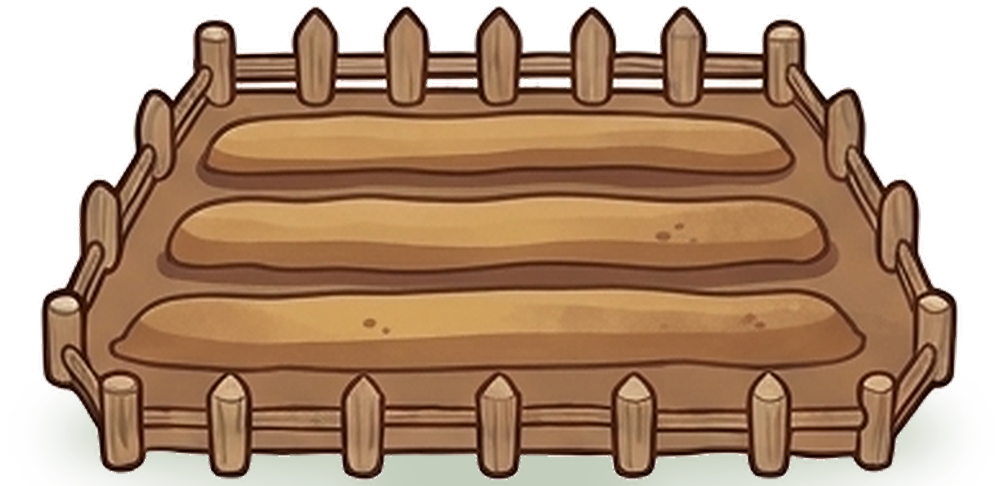
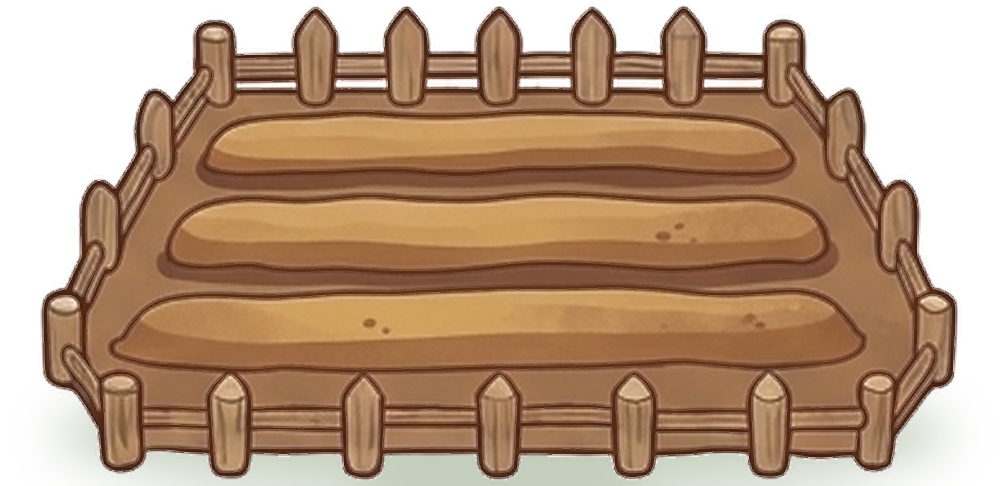
Farm art: thinner, warmer outlines to match cafe and camp line weight
Claude-Session: https://claude.ai/code/session_01BKFR3UAboRDyES9SiyAEwJ

diff --git a/src/screens/Main.dc.html b/src/screens/Main.dc.html
@@ -1042,7 +1042,7 @@ shopLbl: ko ? '토순이 가게' : 'Tienda', wbLbl: ko ? '단어장' : 'Palabras
 hangulLbl: ko ? '율미 편지' : 'Carta de Yoolmi', mbName: 'yoolmi', mbSub: ko ? '영상 · 한국 소식' : 'Videos · noticias',  au: this.authVals(ko), lp: this.lpVals(), ob: this.obVals(ko), ptBlock: !!SS.planting, ptSwallow: (e) => { try { e.preventDefault(); e.stopPropagation(); } catch (x) {} }, shopMsgOn: !!SS.shopMsg, ...(() => { const A = window.__hlAd; const lf = A ? A.left() : 0; return { adTag: ko ? '광고' : 'Anuncio', adRwOn: !SS.shopMsg && !SS.shopDex && lf > 0, adRwLbl: ko ? '광고 보고 당근 1개 받기 · ' + lf + '/' + (A ? A.cap : 6) : 'Mira un anuncio y gana 1 · ' + lf + '/' + (A ? A.cap : 6), adRwGo: () => { const A2 = window.__hlAd; if (!A2) return; A2.rewarded(ko ? '당근 1개 받기 · +1' : 'Recibir 1 zanahoria', () => { const d = this.shopLoad(); d.coins += 1; this.shopSave(d); this.shopNote(ko ? '당근 1개를 받았어요!' : '¡Recibiste 1 zanahoria!'); this.setState({ adK: Date.now() }); }); } }; })(), shopMsgTop: !!SS.shopMsg && !!SS.shopDex, shopMsgGap: !!SS.shopMsg && !SS.shopDex, shopMsg: SS.shopMsg || '',
 shopHint: ko ? '훈련 게임을 하면 당근을 모아요' : 'Juega en Entrenar y junta zanahorias',
 shopItems: catl.filter((x) => x.cat === shopTab).map((it) => { const own = SH.owned.indexOf(it.id) >= 0 || it.price === 0; const on = own && (it.cat === 'deco' ? (SH.eq.deco || []).indexOf(it.id) >= 0 : (SH.eq[it.cat] === it.id || (it.id === 'home_mint' && !(SH.eq.home && SH.owned.indexOf(SH.eq.home) >= 0)) || (it.id === 'font_default' && !(SH.eq.font && SH.owned.indexOf(SH.eq.font) >= 0)) || (it.id === 'bg_forest' && !(SH.eq.bg && SH.owned.indexOf(SH.eq.bg) >= 0)) || (it.id === 'vc_sofia' && !(SH.eq.voice && SH.owned.indexOf(SH.eq.voice) >= 0)))); const afford = SH.coins >= it.price;
-const dk = it.id.replace('dc_', ''); const o = { name: ko ? it.ko : it.es, isBg: it.cat === 'bg' || it.cat === 'home', isTos: it.cat === 'tos', prevBg: it.cat === 'ic' ? 'url(media/ic-' + {ic_lv: 'lv', ic_clover: 'clover', ic_pouch: 'pouch', ic_sun: 'sun', ic_rainbow: 'rainbow', ic_star: 'star', ic_owl: 'owl'}[it.id] + '.webp?v=2) center/46% no-repeat,#FFFFFF' : (it.cat === 'bg' || it.cat === 'home') ? it.css : ((it.cat === 'vil' || it.cat === 'up') ? (it.cat === 'up' ? 'url(media/' + ({ fence: 'vf-', carrot: 'up-carrot-', cafe: 'vc-', tent: 'vt-' })[it.line.slice(3)] + (it.line === 'up_carrot' ? it.tier : Math.min(3, it.tier + 1)) + '.webp?v=11) center/' + ({ up_fence: '92% auto', up_carrot: 'auto 40%', up_cafe: 'auto 72%', up_tent: '80% auto' })[it.line] + ' no-repeat,#FFFFFF' : 'url(media/sp-' + it.id + '.webp?v=2) center/cover no-repeat,#CDE57F') : (it.cat === 'tos' || it.cat === 'kb' || it.cat === 'voice') ? '#FFFFFF' : (it.cat === 'font' ? '#FFFFFF' : '#EEF7F1')), isFont: it.cat === 'font', ff: it.cat === 'font' ? (it.id === 'font_default' ? "'YMF Base'" : "'" + it.ff + "'") : '', filter: it.filter || 'none',
+const dk = it.id.replace('dc_', ''); const o = { name: ko ? it.ko : it.es, isBg: it.cat === 'bg' || it.cat === 'home', isTos: it.cat === 'tos', prevBg: it.cat === 'ic' ? 'url(media/ic-' + {ic_lv: 'lv', ic_clover: 'clover', ic_pouch: 'pouch', ic_sun: 'sun', ic_rainbow: 'rainbow', ic_star: 'star', ic_owl: 'owl'}[it.id] + '.webp?v=2) center/46% no-repeat,#FFFFFF' : (it.cat === 'bg' || it.cat === 'home') ? it.css : ((it.cat === 'vil' || it.cat === 'up') ? (it.cat === 'up' ? 'url(media/' + ({ fence: 'vf-', carrot: 'up-carrot-', cafe: 'vc-', tent: 'vt-' })[it.line.slice(3)] + (it.line === 'up_carrot' ? it.tier : Math.min(3, it.tier + 1)) + '.webp?v=12) center/' + ({ up_fence: '92% auto', up_carrot: 'auto 40%', up_cafe: 'auto 72%', up_tent: '80% auto' })[it.line] + ' no-repeat,#FFFFFF' : 'url(media/sp-' + it.id + '.webp?v=2) center/cover no-repeat,#CDE57F') : (it.cat === 'tos' || it.cat === 'kb' || it.cat === 'voice') ? '#FFFFFF' : (it.cat === 'font' ? '#FFFFFF' : '#EEF7F1')), isFont: it.cat === 'font', ff: it.cat === 'font' ? (it.id === 'font_default' ? "'YMF Base'" : "'" + it.ff + "'") : '', filter: it.filter || 'none',
 showCoin: !own, btnLbl: own ? (on ? (ko ? '사용 중 ✓' : 'En uso ✓') : (ko ? '사용하기' : 'Usar')) : String(it.price), btnBg: own ? (on ? 'var(--th-home,#9BD3A8)' : '#FFFFFF') : (afford ? 'var(--th-circ,#E3F4EC)' : '#F1EEF4'), btnFg: '#4A3A32', op: own || afford ? 1 : 0.7, dis: false, act: () => this.shopAct(it) };
 o.hasImg = !!it.img; o.img = it.img || ''; o.imgH = it.cat === 'tos' ? 88 : 70; return o; }) };
 (() => { const DESC = { vc_sofia: ['또렷하고 상냥한\n소피아 목소리예요.', 'La voz clara y amable\nde Sofía.'], vc_tosuni: ['조금 높고 밝은\n토순이 목소리예요.', 'La voz alegre y aguda\nde Tosuni.'], vc_daniel: ['낮고 차분한\n다니엘 목소리예요.', 'La voz grave y tranquila\nde Daniel.'], bg_forest: ['따뜻한 봄 햇살 아래\n민들레가 피어났어요.', 'Bajo el sol de primavera\nflorecen los dientes de león.'], bg_peach: ['노을 지는 바다 앞에서\n식물이 쉬어 가요.', 'Tu planta descansa frente\nal mar al atardecer.'], bg_night: ['별이 반짝이는 밤.\n"별"은 estrella예요.', 'Una noche estrellada.\n"별" (byol) es estrella.'], bg_palace: ['서울의 궁궐, 경복궁이에요.\n조선 시대 왕이 살았어요.', 'Gyeongbokgung, el palacio de Seúl.\nAllí vivían los reyes de Joseon.'], bg_busan: ['파도가 시원한 여름 바다.\n모래 위 조개껍데기를 찾아봐요!', 'El mar fresco del verano.\n¡Busca conchas en la arena!'], bg_lotte: ['나뭇잎이 붉게 물드는 가을.\n다람쥐가 도토리를 모아요.', 'En otoño las hojas se tiñen de rojo.\nLa ardilla junta bellotas.'], bg_snow: ['하얀 눈이 소복소복 쌓인 겨울.\n눈사람이 반갑게 인사해요.', 'Un invierno de nieve blanca.\nUn muñeco de nieve te saluda.'], dc_butterfly: ['식물 곁을 팔랑팔랑\n날아다니는 나비예요.', 'Una mariposa que revolotea\njunto a tu planta.'], dc_mushroom: ['빨간 모자를 쓴\n동글동글 버섯이에요.', 'Un hongo redondito\ncon sombrero rojo.'], dc_snail: ['천천히, 천천히.\n"천천히"는 despacio예요.', 'Despacio, despacio.\n"천천히" (chonchoni) es despacio.'], dc_bird: ['노래하는 파랑 새예요.\n"새"는 pájaro예요.', 'Un pájaro azul que canta.\n"새" (se) es pájaro.'], dc_sign: ['가, 나, 다!\n한글 첫걸음 팻말이에요.', '¡가, 나, 다!\nUn letrero del primer paso en hangul.'], ts_strawberry: ['딸기 모자를 쓴 토순이.\n"딸기"는 fresa예요.', 'Tosuni con gorro de fresa.\n"딸기" (ttalgui) es fresa.'], ts_farmer: ['밀짚모자를 쓰고\n밭을 가꾸는 토순이예요.', 'Tosuni con sombrero de paja\ncuidando el huerto.'], ts_chef: ['하얀 모자를 쓴 요리사.\n"맛있어요"는 ¡Está rico!예요.', 'Tosuni chef con gorro blanco.\n"맛있어요" es ¡Está rico!'], ts_wizard: ['반짝반짝 마법을 부리는\n마법사 토순이예요.', 'Tosuni mago que hace\nmagia brillante.'], ts_princess: ['왕관을 쓴\n공주 토순이예요.', 'Tosuni princesa\ncon su corona.'], ts_hanbok_blue: ['하늘색 한복을 입었어요.\n한복은 한국 전통 옷이에요.', 'Lleva un hanbok celeste.\nEl hanbok es la ropa tradicional coreana.'], ts_hanbok_pink: ['분홍 한복을 입었어요.\n명절에 입으면 예뻐요.', 'Lleva un hanbok rosa.\nSe ve bonito en las fiestas.'], vs_summer: ["늘 보던 초록 마을이에요.", "La aldea verde de siempre."], ic_lv: ["지금 레벨 아이콘이에요.\n씨앗, 새싹, 꽃잎으로 바뀌어요.", "El icono de tu nivel.\nCambia con tu nivel."], ic_clover: ["행운이 가득!\n오늘은 좋은 예감이 들어.", "¡Mucha suerte!\nHoy tengo un buen presentimiento."], ic_pouch: ["좋은 일이 생길 거야.\n복이 주렁주렁!", "Algo bueno llegará.\n¡Buena fortuna para ti!"], ic_sun: ["오늘도 힘차게!\n할 수 있어, 화이팅!", "¡Con energía!\n¡Tú puedes!"], ic_rainbow: ["오늘은 신나는 날.\n기분 좋은 일만 가득!", "Hoy es un día feliz.\n¡Solo cosas lindas!"], ic_star: ["소원을 빌어 봐.\n오늘 목표, 꼭 이룰 거야.", "Pide un deseo.\nHoy cumplirás tu meta."], ic_owl: ["공부가 쏙쏙!\n천천히, 하나씩 해 보자.", "¡A aprender!\nDespacio, de uno en uno."], vs_spring: ["벚꽃잎이 날리는 봄 마을이에요.\n봄은 primavera예요.", "Una aldea con flores de cerezo.\n봄 es primavera."], vs_autumn: ["단풍잎이 떨어지는 가을 마을이에요.\n가을은 otoño예요.", "Una aldea con hojas de otoño.\n가을 es otoño."], vs_winter: ["하얀 눈이 쌓인 겨울 마을이에요.\n눈은 nieve예요.", "Una aldea cubierta de nieve.\n눈 es nieve."], up_fence1: ['나무 울타리 밭이 하얀 울타리 농장이 돼요.\n비닐하우스도 생겨요.', 'Tu huerto crece: cerca blanca\ny un invernadero.'], up_fence2: ['돌담을 두른 큰 농장이 돼요.\n풍차와 창고가 생겨요.\n하얀 울타리 농장을 먼저 사야 열려요.', 'Una gran granja con molino y granero.\nPrimero compra la granja de cerca blanca.'], up_carrot1: ['밭의 당근이 노란 당근이 돼요.', 'Las zanahorias de la granja se vuelven amarillas.'], up_carrot2: ['밭의 당근이 보라 당근이 돼요.\n노란 당근을 먼저 사야 열려요.', 'Las zanahorias se vuelven moradas.\nPrimero compra Zanahoria amarilla.'], up_cafe1: ['나무 판매대가 작은 카페 건물이 돼요.', 'El puesto de madera se vuelve un café.'], up_cafe2: ['카페가 테라스 있는 2층 건물이 돼요.\n당근 카페를 먼저 사야 열려요.', 'El café crece a dos pisos con terraza.\nPrimero compra el café de zanahoria.'], up_tent1: ['돗자리 옆에 탐험 텐트를 쳐요.', 'Montas una carpa junto a la manta.'], up_tent2: ['망원경이 있는 탐험 전망대가 생겨요.\n탐험 텐트를 먼저 사야 열려요.', 'Un mirador con telescopio.\nPrimero compra la carpa.'], kb_hanji: ['한지 느낌의 기본 자판이에요.\n자음은 흰색, 모음은 한지색이에요.', 'Teclado básico estilo hanji.\nConsonantes blancas, vocales color hanji.'], kb_strawberry: ['달콤한 딸기우유 색 자판이에요.\n채팅할 때 바로 바뀌어요.', 'Teclado color fresa con leche.\nSe usa al chatear.'], kb_lemon: ['상큼한 레몬 색 자판이에요.\n채팅할 때 바로 바뀌어요.', 'Teclado color limón.\nSe usa al chatear.'], kb_ocean: ['시원한 바다 색 자판이에요.\n채팅할 때 바로 바뀌어요.', 'Teclado color mar.\nSe usa al chatear.'], kb_rainbow: ['줄마다 색이 다른 무지개 자판이에요.\n채팅할 때 바로 바뀌어요.', 'Teclado arcoíris.\nSe usa al chatear.'] };
@@ -1054,12 +1054,12 @@ shopVals.spTabs = CATS.map((c) => ({ t: ko ? c[1] : c[2], on: c[0] === shopTab, 
 shopVals.spBackLbl = ko ? '홈으로' : 'Volver a Inicio'; shopVals.spHomeLbl = ko ? '홈' : 'Inicio';
 if (it) { const own = ownOf(it), on = onOf(it), afford = SH.coins >= it.price; const nm = ko ? it.ko : it.es; const D = DESC[it.id] || ['', '']; const eqB = eqBg ? eqBg.css : '#E9F1E4';
  shopVals.sp = { anim: SS.shopK ? (SS.shopDir === 'b' ? 'pg-b' : 'pg-a') : '', pg: (idx + 1) + ' / ' + list.length, name: nm, desc: D[ko ? 0 : 1],
-  pvReal: it.cat === 'bg' || it.cat === 'deco', pvFlat: !(it.cat === 'bg' || it.cat === 'deco'), decos: (() => { const DP = this.decoPosVals(); const DD = { dc_butterfly: ['bfly', 'left:70px;top:40px;', '29px', DP.dpBfly], dc_mushroom: ['mush', 'left:14px;bottom:48px;', '47px', DP.dpMush], dc_snail: ['snail', 'right:8px;bottom:48px;', '34px', DP.dpSnail], dc_bird: ['bird', 'right:58px;top:46px;', '29px', ''], dc_sign: ['sign', 'right:56px;bottom:58px;', '38px', DP.dpSign] }; const ids = (SH.eq.deco || []).filter((x) => SH.owned.indexOf(x) >= 0 && DD[x]); if (it.cat === 'deco' && ids.indexOf(it.id) < 0) ids.push(it.id); return ids.map((x) => { const c = catl.find((q) => q.id === x) || {}; const d = DD[x]; return { img: c.img || '', pos: d[1] + (d[3] || ''), h: d[2], two: x === 'dc_mushroom', f: x === it.id ? 'drop-shadow(0 0 5px rgba(255,236,150,.95))' : 'none' }; }); })(), plTf: it.cat === 'bg' ? 'translateY(-30px) scale(.42)' : 'translateY(22px) scale(.92)', pvIc: it.cat === 'ic', pvUp: it.cat === 'up', upTiers: it.cat === 'up' ? [0, 1, 2].map((k) => { const ln = it.line.slice(3); const img = 'media/' + ({ fence: 'vf-', carrot: 'up-carrot-', cafe: 'vc-', tent: 'vt-' })[ln] + (ln === 'carrot' ? k : k + 1) + '.webp?v=11'; const has = k === 0 || SH.owned.indexOf(it.line + k) >= 0; const cur = k === it.tier; return { img: img, t: k === 0 ? (ko ? '기본' : 'Básico') : (ko ? k + '단계' : 'Nivel ' + k), bd: cur ? '2px solid #6E58B8' : '1.4px solid ' + (has ? '#BFB3D6' : '#E2DBEC'), op: cur || has ? 1 : 0.5, fw: cur ? 800 : 700, c: cur ? '#4F3C99' : '#7A6E86', h: ln === 'carrot' ? '30px' : '34px' }; }) : [], icBg: it.id === 'ic_lv' ? (({ LH: '#F5EAD6', SS: '#E4F3D8', GE: '#FCE4EC' })[this.myCls()] || '#F5EAD6') : (({ ic_clover: '#E4F3D8', ic_pouch: '#FDE3E6', ic_sun: '#FFF2C4', ic_rainbow: '#E3F0FB', ic_star: '#ECE6FA', ic_owl: '#F3E6D8' })[it.id] || '#F5EAD6'), icImg: it.cat === 'ic' ? 'media/ic-' + it.id.slice(3) + '.webp?v=2' : '', icOn: it.cat === 'ic' && on, icOnT: ko ? '적용 중' : 'En uso', icNm: (() => { try { return window.localStorage.getItem('yoolmi-plant-nick-' + this.myCls()) || (ko ? '내 식물' : 'Mi planta'); } catch (e) { return ko ? '내 식물' : 'Mi planta'; } })(), pvBg: it.cat === 'ic' ? 'url(media/ic-' + {ic_lv: 'lv', ic_clover: 'clover', ic_pouch: 'pouch', ic_sun: 'sun', ic_rainbow: 'rainbow', ic_star: 'star', ic_owl: 'owl'}[it.id] + '.webp?v=2) 50% 32%/44% no-repeat,#FFFFFF' : it.cat === 'up' ? 'url(media/' + ({ fence: 'vf-', carrot: 'up-carrot-', cafe: 'vc-', tent: 'vt-' })[it.line.slice(3)] + (it.line === 'up_carrot' ? it.tier : Math.min(3, it.tier + 1)) + '.webp?v=11) 50% 30%/' + ({ up_fence: '84% auto', up_carrot: 'auto 34%', up_cafe: 'auto 54%', up_tent: '64% auto' })[it.line] + ' no-repeat,#FFFFFF' : it.cat === 'vil' ? 'url(media/sp-' + it.id + '.webp?v=2) center/cover no-repeat,#CDE57F' : it.cat === 'bg' ? String(it.css).replace('50% 100%/cover', '50% 46%/100% auto') + ', ' + (({ bg_forest: '#C5E36B', bg_peach: '#BFA3DB', bg_night: '#332B6F', bg_palace: '#FEEAD3', bg_busan: '#FEE493', bg_lotte: '#FED658', bg_snow: '#EDF0FB' })[it.id] || '#CFE8F5') : it.cat === 'home' ? it.css : ((it.cat === 'vil' || it.cat === 'up') ? '#E9F4D6' : (it.cat === 'tos' || it.cat === 'kb' || it.cat === 'voice') ? '#FFFFFF' : eqB), pvPlant: it.cat === 'bg' || it.cat === 'deco', pvDeco: it.cat === 'deco', pvTos: it.cat === 'tos', pvVoice: it.cat === 'voice', vcLbl: ko ? '들어 보기' : 'Escuchar', vcGo: () => { const VI = { vc_sofia: 5, vc_tosuni: 2, vc_daniel: 3 }; try { this.hlKbInstall && this.hlKbInstall(); } catch (e) {} if (window.__hlSay) window.__hlSay(({ vc_sofia: '안녕하세요, 저는 소피아예요. 오늘도 같이 읽어 봐요.', vc_tosuni: '안녕! 나는 토순이야. 오늘도 한글 나라에서 같이 놀자!', vc_daniel: '안녕하세요, 다니엘이에요. 천천히, 하나씩 해 봐요.' })[it.id] || '안녕하세요!', ({ vc_sofia: 'so', vc_tosuni: 'to', vc_daniel: 'da' })[it.id] || 'so'); }, pvKb: it.cat === 'kb', kbCls: it.cat === 'kb' ? 'sp-kb' : '', pvHome: it.cat === 'home', plant: plantImg, img: it.img || '',
+  pvReal: it.cat === 'bg' || it.cat === 'deco', pvFlat: !(it.cat === 'bg' || it.cat === 'deco'), decos: (() => { const DP = this.decoPosVals(); const DD = { dc_butterfly: ['bfly', 'left:70px;top:40px;', '29px', DP.dpBfly], dc_mushroom: ['mush', 'left:14px;bottom:48px;', '47px', DP.dpMush], dc_snail: ['snail', 'right:8px;bottom:48px;', '34px', DP.dpSnail], dc_bird: ['bird', 'right:58px;top:46px;', '29px', ''], dc_sign: ['sign', 'right:56px;bottom:58px;', '38px', DP.dpSign] }; const ids = (SH.eq.deco || []).filter((x) => SH.owned.indexOf(x) >= 0 && DD[x]); if (it.cat === 'deco' && ids.indexOf(it.id) < 0) ids.push(it.id); return ids.map((x) => { const c = catl.find((q) => q.id === x) || {}; const d = DD[x]; return { img: c.img || '', pos: d[1] + (d[3] || ''), h: d[2], two: x === 'dc_mushroom', f: x === it.id ? 'drop-shadow(0 0 5px rgba(255,236,150,.95))' : 'none' }; }); })(), plTf: it.cat === 'bg' ? 'translateY(-30px) scale(.42)' : 'translateY(22px) scale(.92)', pvIc: it.cat === 'ic', pvUp: it.cat === 'up', upTiers: it.cat === 'up' ? [0, 1, 2].map((k) => { const ln = it.line.slice(3); const img = 'media/' + ({ fence: 'vf-', carrot: 'up-carrot-', cafe: 'vc-', tent: 'vt-' })[ln] + (ln === 'carrot' ? k : k + 1) + '.webp?v=12'; const has = k === 0 || SH.owned.indexOf(it.line + k) >= 0; const cur = k === it.tier; return { img: img, t: k === 0 ? (ko ? '기본' : 'Básico') : (ko ? k + '단계' : 'Nivel ' + k), bd: cur ? '2px solid #6E58B8' : '1.4px solid ' + (has ? '#BFB3D6' : '#E2DBEC'), op: cur || has ? 1 : 0.5, fw: cur ? 800 : 700, c: cur ? '#4F3C99' : '#7A6E86', h: ln === 'carrot' ? '30px' : '34px' }; }) : [], icBg: it.id === 'ic_lv' ? (({ LH: '#F5EAD6', SS: '#E4F3D8', GE: '#FCE4EC' })[this.myCls()] || '#F5EAD6') : (({ ic_clover: '#E4F3D8', ic_pouch: '#FDE3E6', ic_sun: '#FFF2C4', ic_rainbow: '#E3F0FB', ic_star: '#ECE6FA', ic_owl: '#F3E6D8' })[it.id] || '#F5EAD6'), icImg: it.cat === 'ic' ? 'media/ic-' + it.id.slice(3) + '.webp?v=2' : '', icOn: it.cat === 'ic' && on, icOnT: ko ? '적용 중' : 'En uso', icNm: (() => { try { return window.localStorage.getItem('yoolmi-plant-nick-' + this.myCls()) || (ko ? '내 식물' : 'Mi planta'); } catch (e) { return ko ? '내 식물' : 'Mi planta'; } })(), pvBg: it.cat === 'ic' ? 'url(media/ic-' + {ic_lv: 'lv', ic_clover: 'clover', ic_pouch: 'pouch', ic_sun: 'sun', ic_rainbow: 'rainbow', ic_star: 'star', ic_owl: 'owl'}[it.id] + '.webp?v=2) 50% 32%/44% no-repeat,#FFFFFF' : it.cat === 'up' ? 'url(media/' + ({ fence: 'vf-', carrot: 'up-carrot-', cafe: 'vc-', tent: 'vt-' })[it.line.slice(3)] + (it.line === 'up_carrot' ? it.tier : Math.min(3, it.tier + 1)) + '.webp?v=12) 50% 30%/' + ({ up_fence: '84% auto', up_carrot: 'auto 34%', up_cafe: 'auto 54%', up_tent: '64% auto' })[it.line] + ' no-repeat,#FFFFFF' : it.cat === 'vil' ? 'url(media/sp-' + it.id + '.webp?v=2) center/cover no-repeat,#CDE57F' : it.cat === 'bg' ? String(it.css).replace('50% 100%/cover', '50% 46%/100% auto') + ', ' + (({ bg_forest: '#C5E36B', bg_peach: '#BFA3DB', bg_night: '#332B6F', bg_palace: '#FEEAD3', bg_busan: '#FEE493', bg_lotte: '#FED658', bg_snow: '#EDF0FB' })[it.id] || '#CFE8F5') : it.cat === 'home' ? it.css : ((it.cat === 'vil' || it.cat === 'up') ? '#E9F4D6' : (it.cat === 'tos' || it.cat === 'kb' || it.cat === 'voice') ? '#FFFFFF' : eqB), pvPlant: it.cat === 'bg' || it.cat === 'deco', pvDeco: it.cat === 'deco', pvTos: it.cat === 'tos', pvVoice: it.cat === 'voice', vcLbl: ko ? '들어 보기' : 'Escuchar', vcGo: () => { const VI = { vc_sofia: 5, vc_tosuni: 2, vc_daniel: 3 }; try { this.hlKbInstall && this.hlKbInstall(); } catch (e) {} if (window.__hlSay) window.__hlSay(({ vc_sofia: '안녕하세요, 저는 소피아예요. 오늘도 같이 읽어 봐요.', vc_tosuni: '안녕! 나는 토순이야. 오늘도 한글 나라에서 같이 놀자!', vc_daniel: '안녕하세요, 다니엘이에요. 천천히, 하나씩 해 봐요.' })[it.id] || '안녕하세요!', ({ vc_sofia: 'so', vc_tosuni: 'to', vc_daniel: 'da' })[it.id] || 'so'); }, pvKb: it.cat === 'kb', kbCls: it.cat === 'kb' ? 'sp-kb' : '', pvHome: it.cat === 'home', plant: plantImg, img: it.img || '',
   pvLbl: ko ? '미리보기' : 'Vista previa', ownOn: own && !on, ownTxt: on ? (ko ? '적용 중' : 'En uso') : (ko ? '가지고 있어요' : 'Ya lo tienes'), ownBg: on ? '#DCD0F2' : '#FFFFFF',
   dots: list.map((x, k) => ({ w: k === idx ? '18px' : '7px', c: k === idx ? '#8A766B' : '#D8CEC4' })),
   btnCoin: !own && !(it.req && SH.owned.indexOf(it.req) < 0), btnLbl: (!own && it.req && SH.owned.indexOf(it.req) < 0) ? (ko ? '앞 단계 먼저' : 'Nivel anterior primero') : own ? (on ? (it.cat === 'ic' ? (ko ? '해제하기' : 'Quitar') : it.cat === 'up' ? (ko ? '기본으로 되돌리기' : 'Volver a lo básico') : it.cat === 'deco' ? (ko ? '식물에서 빼기' : 'Quitar de la planta') : (ko ? '적용 중' : 'En uso')) : (ko ? '적용하기' : 'Aplicar')) : String(it.price),
   btnBg: (!own && it.req && SH.owned.indexOf(it.req) < 0) ? '#ECE7F2' : own ? (on ? ((it.cat === 'deco' || it.cat === 'up' || it.cat === 'ic') ? '#FFFFFF' : '#DCD0F2') : '#FFFFFF') : (afford ? '#FFE3CC' : '#ECE7F2'), btnOp: !own && !afford ? 0.6 : 1,
-  act: () => { if (own && on && it.cat !== 'deco' && it.cat !== 'up' && it.cat !== 'ic') return; this.shopAct(it); }, prev: go(-1), next: go(1), ...(() => { const pk = (x) => ({ bg: x.cat === 'ic' ? 'url(media/ic-' + {ic_lv: 'lv', ic_clover: 'clover', ic_pouch: 'pouch', ic_sun: 'sun', ic_rainbow: 'rainbow', ic_star: 'star', ic_owl: 'owl'}[x.id] + '.webp?v=2) center/46% no-repeat,#FFFFFF' : x.cat === 'bg' || x.cat === 'home' ? x.css : ((x.cat === 'vil' || x.cat === 'up') ? (x.cat === 'up' ? 'url(media/' + ({ fence: 'vf-', carrot: 'up-carrot-', cafe: 'vc-', tent: 'vt-' })[x.line.slice(3)] + (x.line === 'up_carrot' ? x.tier : Math.min(3, x.tier + 1)) + '.webp?v=11) center/' + ({ up_fence: '96% auto', up_carrot: 'auto 40%', up_cafe: 'auto 46%', up_tent: '62% auto' })[x.line] + ' no-repeat,#FFFFFF' : 'url(media/sp-' + x.id + '.webp?v=2) center/cover no-repeat,#CDE57F') : (x.cat === 'tos' || x.cat === 'kb' || x.cat === 'voice') ? '#FFFFFF' : eqB), img: '' }); const a = pk(list[(idx - 1 + list.length) % list.length]), b = pk(list[(idx + 1) % list.length]); return { prevBg: a.bg, prevImg: a.img, prevHasImg: !!a.img, nextBg: b.bg, nextImg: b.img, nextHasImg: !!b.img }; })(), pd: (e) => { this._swX = e && e.clientX; }, pu: (e) => { const x0 = this._swX; this._swX = null; if (x0 == null || !e) return; const dx = e.clientX - x0; if (dx > 40) go(-1)(); else if (dx < -40) go(1)(); }, prevLbl: ko ? '이전 물건' : 'Anterior', nextLbl: ko ? '다음 물건' : 'Siguiente' }; }
+  act: () => { if (own && on && it.cat !== 'deco' && it.cat !== 'up' && it.cat !== 'ic') return; this.shopAct(it); }, prev: go(-1), next: go(1), ...(() => { const pk = (x) => ({ bg: x.cat === 'ic' ? 'url(media/ic-' + {ic_lv: 'lv', ic_clover: 'clover', ic_pouch: 'pouch', ic_sun: 'sun', ic_rainbow: 'rainbow', ic_star: 'star', ic_owl: 'owl'}[x.id] + '.webp?v=2) center/46% no-repeat,#FFFFFF' : x.cat === 'bg' || x.cat === 'home' ? x.css : ((x.cat === 'vil' || x.cat === 'up') ? (x.cat === 'up' ? 'url(media/' + ({ fence: 'vf-', carrot: 'up-carrot-', cafe: 'vc-', tent: 'vt-' })[x.line.slice(3)] + (x.line === 'up_carrot' ? x.tier : Math.min(3, x.tier + 1)) + '.webp?v=12) center/' + ({ up_fence: '96% auto', up_carrot: 'auto 40%', up_cafe: 'auto 46%', up_tent: '62% auto' })[x.line] + ' no-repeat,#FFFFFF' : 'url(media/sp-' + x.id + '.webp?v=2) center/cover no-repeat,#CDE57F') : (x.cat === 'tos' || x.cat === 'kb' || x.cat === 'voice') ? '#FFFFFF' : eqB), img: '' }); const a = pk(list[(idx - 1 + list.length) % list.length]), b = pk(list[(idx + 1) % list.length]); return { prevBg: a.bg, prevImg: a.img, prevHasImg: !!a.img, nextBg: b.bg, nextImg: b.img, nextHasImg: !!b.img }; })(), pd: (e) => { this._swX = e && e.clientX; }, pu: (e) => { const x0 = this._swX; this._swX = null; if (x0 == null || !e) return; const dx = e.clientX - x0; if (dx > 40) go(-1)(); else if (dx < -40) go(1)(); }, prevLbl: ko ? '이전 물건' : 'Anterior', nextLbl: ko ? '다음 물건' : 'Siguiente' }; }
 else shopVals.sp = {};
 const all = catl.filter((x) => CATS.some((c) => c[0] === x.cat)); const ownN = all.filter(ownOf).length;
 shopVals.spDexPeek = (() => { const eB = catl.find((x) => x.cat === 'bg' && onOf(x)) || catl.find((x) => x.id === 'bg_forest'); const eT = catl.find((x) => x.cat === 'tos' && SH.eq.tos === x.id && ownOf(x)); return [{ k: ko ? '배경' : 'Fondo', name: eB ? (ko ? eB.ko : eB.es) : '', thumb: eB ? eB.css : '#fff', hasImg: false, img: '' }, { k: ko ? '토순이' : 'Tosuni', name: eT ? (ko ? eT.ko : eT.es) : (ko ? '기본 토순이' : 'Tosuni básico'), thumb: '#FFFFFF', hasImg: true, img: eT ? eT.img : (this.tosSkin() || '/_blob/2edc7da400f67364cabb2f330021b520') }]; })(); shopVals.spDexOn = !!SS.shopDex; shopVals.spDexOpen = () => this.setState({ shopDex: true }); shopVals.spDexClose = () => this.setState({ shopDex: false });

diff --git a/src/screens/Quiz.dc.html b/src/screens/Quiz.dc.html
@@ -906,7 +906,7 @@ clearTimeout(this._g2T); this.setState({ g2Ph: 'res', g2Gain: gain, g3Ok: ok, g3
 g3Plots() { const X = this.g3FarmStat(); const out = []; const rd = Math.min(15, X.ready.length); for (let i = 0; i < 15; i++) { if (i < rd) out.push('c'); else if (i < rd + X.sprout.length) { const ag = Date.now() - (X.F.p[X.sprout[i - rd]] || Date.now()); out.push(ag < 1200000 ? 's1' : (ag < 2400000 ? 's2' : 's3')); } else out.push('e'); } return { plots: out, X: X }; }
 g3Hub() {
 const ko = this.getLang() === 'ko'; const P = this.g3Plots(); const POS = ({"0": [[30.82, 31.01, 7.54], [40.85, 31.01, 7.54], [50.88, 31.01, 7.54], [60.91, 31.01, 7.54], [70.94, 31.01, 7.54], [27.38, 34.71, 7.54], [38.3, 34.71, 7.54], [49.3, 34.71, 7.54], [60.3, 34.71, 7.54], [71.21, 34.71, 7.54], [23.6, 38.67, 7.54], [36.1, 38.67, 7.54], [48.68, 38.67, 7.54], [61.26, 38.67, 7.54], [73.76, 38.67, 7.54]], "1": [[29.94, 31.23, 7.81], [39.97, 31.23, 7.81], [50.0, 31.23, 7.81], [60.03, 31.23, 7.81], [70.06, 31.23, 7.81], [26.94, 35.02, 7.81], [37.86, 35.02, 7.81], [48.68, 35.02, 7.81], [59.5, 35.02, 7.81], [70.42, 35.02, 7.81], [23.42, 39.2, 7.81], [35.57, 39.2, 7.81], [47.8, 39.2, 7.81], [60.03, 39.2, 7.81], [72.18, 39.2, 7.81]], "2": [[30.29, 30.18, 7.9], [40.76, 30.18, 7.9], [51.32, 30.18, 7.9], [61.88, 30.18, 7.9], [72.35, 30.18, 7.9], [27.47, 34.18, 7.9], [39.18, 34.18, 7.9], [50.88, 34.18, 7.9], [62.58, 34.18, 7.9], [74.29, 34.18, 7.9], [28.79, 38.27, 7.9], [39.88, 38.27, 7.9], [50.88, 38.27, 7.9], [61.88, 38.27, 7.9], [72.97, 38.27, 7.9]]})[(() => { try { const e = JSON.parse(window.localStorage.getItem('yoolmi-equip') || '{}') || {}; const o = JSON.parse(window.localStorage.getItem('yoolmi-owned') || '[]') || []; return (e.up_fence && o.indexOf(e.up_fence) >= 0) ? String(Math.min(2, +String(e.up_fence).slice(-1) || 0)) : '0'; } catch (x) { return '0'; } })()];
-return { g3HubOn: !((this.state || {}).mode), g3VilDeco: (() => { const P = { vl_flower: [2, 46, 20], vl_bench: [26, 48.5, 18], vl_scarecrow: [61, 46, 13], vl_mailbox: [87, 55, 10], vl_well: [81, 12, 16], vl_lantern: [46, 54.5, 8], vl_jangdok: [1, 87.5, 22], vl_pond: [36, 88, 27] }; let eq = [], own = []; try { const e = JSON.parse(window.localStorage.getItem('yoolmi-equip') || '{}') || {}; eq = [].concat(e.vil || []); own = JSON.parse(window.localStorage.getItem('yoolmi-owned') || '[]') || []; } catch (e) {} return eq.filter((id) => P[id] && own.indexOf(id) >= 0).map((id) => ({ k: id, src: 'media/vl-' + id.slice(3) + '.svg?v=1', st: 'left:' + P[id][0] + '%;top:' + P[id][1] + '%;width:' + P[id][2] + '%' })); })(), ...(() => { let e = {}, o = []; try { e = JSON.parse(window.localStorage.getItem('yoolmi-equip') || '{}') || {}; o = JSON.parse(window.localStorage.getItem('yoolmi-owned') || '[]') || []; } catch (x) {} const tier = (ln) => { const id = e['up_' + ln]; if (!id || o.indexOf(id) < 0) return 0; return parseInt(String(id).slice(-1), 10) || 0; }; const F = tier('fence'), C = tier('carrot'), K = tier('cafe'), T = tier('tent'); const GL = 'drop-shadow(0 0 6px rgba(255,225,120,.95)) drop-shadow(0 .6cqw .5cqw rgba(70,90,40,.22))'; return { g3UpFarm: 'media/vf-' + (Math.min(2, F) + 1) + '.webp?v=8', g3UpCafe: 'media/vc-' + (Math.min(2, K) + 1) + '.webp?v=7', g3UpTent: 'media/vt-' + (Math.min(2, T) + 1) + '.webp?v=4', g3UpCafeF: (Math.min(2, K) === 0 ? 'scale:1.1;transform-origin:50% 100%' : ''), g3UpTentF: (Math.min(2, T) === 0 ? 'scale:1.1;transform-origin:50% 100%' : ''), g3UpCrVar: '--far:1000/' + ({ 0: 486, 1: 613, 2: 690 })[Math.min(2, F)] + ';' + '--crimg:url(media/pc-' + Math.min(2, C) + '.webp?v=1);--crsz:100% 100%;--crar:' + (['272/303', '272/303', '272/301'][Math.min(2, C)] || '272/303') + ';--crclip:none;--crty:-97%;'  }; })(), g3InBg: this.g3BgCss(), g3InBgF: this.g3BgCss('f'), g3VilBgCss: (() => { let f = ''; try { const e = JSON.parse(window.localStorage.getItem('yoolmi-equip') || '{}') || {}; const o = JSON.parse(window.localStorage.getItem('yoolmi-owned') || '[]') || []; const M = { vs_spring: '-spring', vs_autumn: '-autumn', vs_winter: '-winter' };  } catch (e) {} return 'background:url(media/vil-bg' + f + '.webp?v=3) center bottom/cover no-repeat,' + (f === '-winter' ? '#EEF3F4' : (f === '-autumn' ? '#E3CB7E' : '#CDE57F')); })(), g3Tod: 'day', g3VilT: ko ? '토순이 한글 마을' : 'Aldea coreana de Tosuni', g3HubSvg: '', g3Plots: P.plots.map((st, i) => { const SPS = { s1: [1, '272/92', '-97%', 1, .3], s2: [2, '272/197', '-97%', 1, .3], s3: [3, '313/301', '-97%', 1.15, .3] }; const sp = SPS[st]; return { l: POS[i][0] + '%', t: POS[i][1] + '%', w: POS[i][2] + '%', sw: (POS[i][2] * (sp ? sp[3] : .8)).toFixed(2) + '%', cD: st === 'c' ? 'block' : 'none', sD: sp ? 'block' : 'none', eD: st === 'e' ? 'block' : 'none', mD: st === 'e' ? 'none' : 'block', mw: (st === 'c' ? POS[i][2] * .84 : (sp ? POS[i][2] * sp[3] * sp[4] : 0)).toFixed(2) + '%', spSt: sp ? 'background-image:url(media/ps-' + sp[0] + '.webp?v=1);aspect-ratio:' + sp[1] + ';transform:translate(-50%,' + sp[2] + ')' : '' }; }), g3GoFarm: () => this.g3Hero('f', () => this.g2Open('q')), g3GoFac: () => this.g3Hero('c', () => this.g2Open('b')), g3GoWord: () => this.g3Hero('w', () => { let seen = false; try { seen = window.localStorage.getItem('yoolmi-tut-vocab') === '1'; } catch (e) {} if (seen) { try { this.tiGo('vocab'); } catch (e) {} } else { this.setState({ ti: 'vocab', tiPh: 'tut' }); } }), g3ZmC: (() => { const S0 = this.state || {}; const on = !S0.mode && !S0.g2On && !S0.ti; if (S0.g3Zm) return 'g3in-' + S0.g3Zm; if (!on) { this._g3Off = true; return ''; } if (this._g3Off) { this._g3Off = false; this._g3BkT = Date.now(); } return (this._g3Last && Date.now() - (this._g3BkT || 0) < 900) ? 'g3out-' + this._g3Last : ''; })(), g3FarmL: ko ? '당근 농장' : 'Granja', g3FacL: ko ? '한글 카페' : 'Café', g3WordL: ko ? '단어 탐색' : 'Palabras', g3FarmB: ko ? '퀴즈 풀기' : 'Hacer el quiz', g3FacB: ko ? '한글 만들기' : 'Armar hangul', g3WordB: ko ? '단어 외우기' : 'Aprender', g3FarmS: ko ? '퀴즈 풀고 당근 키우기' : 'Haz el quiz', g3FacS: ko ? '글자·단어·문장 만들기' : 'Arma en coreano', g3WordS: ko ? '단어 외우기' : 'Vocabulario', g3ReadyC: (ko ? '캐기 ' : 'Cosecha ') + P.X.ready.length, g3TodayC: (ko ? '심기 ' : 'Siembra ') + P.X.planted + '/15', g3FarmA: ko ? '당근 농장: 퀴즈 풀고 당근 키우기' : 'Granja: quiz y zanahorias', g3FacA: ko ? '한글 카페: 글자·단어·문장 만들기' : 'Café: sílabas, palabras y frases', g3WordA: ko ? '단어 탐색: 단어 외우기' : 'Palabras: vocabulario', g3ReadyOn: P.X.ready.length > 0, g3ReadyN: String(P.X.ready.length), g3ReadyL: ko ? '캘 당근' : 'Para cosechar', g3TodayL: ko ? '오늘 심기' : 'Siembra hoy', g3TodayN: P.X.planted + '/15', g3TodayPct: Math.min(100, Math.round(P.X.planted / 15 * 100)) + '%' };
+return { g3HubOn: !((this.state || {}).mode), g3VilDeco: (() => { const P = { vl_flower: [2, 46, 20], vl_bench: [26, 48.5, 18], vl_scarecrow: [61, 46, 13], vl_mailbox: [87, 55, 10], vl_well: [81, 12, 16], vl_lantern: [46, 54.5, 8], vl_jangdok: [1, 87.5, 22], vl_pond: [36, 88, 27] }; let eq = [], own = []; try { const e = JSON.parse(window.localStorage.getItem('yoolmi-equip') || '{}') || {}; eq = [].concat(e.vil || []); own = JSON.parse(window.localStorage.getItem('yoolmi-owned') || '[]') || []; } catch (e) {} return eq.filter((id) => P[id] && own.indexOf(id) >= 0).map((id) => ({ k: id, src: 'media/vl-' + id.slice(3) + '.svg?v=1', st: 'left:' + P[id][0] + '%;top:' + P[id][1] + '%;width:' + P[id][2] + '%' })); })(), ...(() => { let e = {}, o = []; try { e = JSON.parse(window.localStorage.getItem('yoolmi-equip') || '{}') || {}; o = JSON.parse(window.localStorage.getItem('yoolmi-owned') || '[]') || []; } catch (x) {} const tier = (ln) => { const id = e['up_' + ln]; if (!id || o.indexOf(id) < 0) return 0; return parseInt(String(id).slice(-1), 10) || 0; }; const F = tier('fence'), C = tier('carrot'), K = tier('cafe'), T = tier('tent'); const GL = 'drop-shadow(0 0 6px rgba(255,225,120,.95)) drop-shadow(0 .6cqw .5cqw rgba(70,90,40,.22))'; return { g3UpFarm: 'media/vf-' + (Math.min(2, F) + 1) + '.webp?v=9', g3UpCafe: 'media/vc-' + (Math.min(2, K) + 1) + '.webp?v=7', g3UpTent: 'media/vt-' + (Math.min(2, T) + 1) + '.webp?v=4', g3UpCafeF: (Math.min(2, K) === 0 ? 'scale:1.1;transform-origin:50% 100%' : ''), g3UpTentF: (Math.min(2, T) === 0 ? 'scale:1.1;transform-origin:50% 100%' : ''), g3UpCrVar: '--far:1000/' + ({ 0: 486, 1: 613, 2: 690 })[Math.min(2, F)] + ';' + '--crimg:url(media/pc-' + Math.min(2, C) + '.webp?v=1);--crsz:100% 100%;--crar:' + (['272/303', '272/303', '272/301'][Math.min(2, C)] || '272/303') + ';--crclip:none;--crty:-97%;'  }; })(), g3InBg: this.g3BgCss(), g3InBgF: this.g3BgCss('f'), g3VilBgCss: (() => { let f = ''; try { const e = JSON.parse(window.localStorage.getItem('yoolmi-equip') || '{}') || {}; const o = JSON.parse(window.localStorage.getItem('yoolmi-owned') || '[]') || []; const M = { vs_spring: '-spring', vs_autumn: '-autumn', vs_winter: '-winter' };  } catch (e) {} return 'background:url(media/vil-bg' + f + '.webp?v=3) center bottom/cover no-repeat,' + (f === '-winter' ? '#EEF3F4' : (f === '-autumn' ? '#E3CB7E' : '#CDE57F')); })(), g3Tod: 'day', g3VilT: ko ? '토순이 한글 마을' : 'Aldea coreana de Tosuni', g3HubSvg: '', g3Plots: P.plots.map((st, i) => { const SPS = { s1: [1, '272/92', '-97%', 1, .3], s2: [2, '272/197', '-97%', 1, .3], s3: [3, '313/301', '-97%', 1.15, .3] }; const sp = SPS[st]; return { l: POS[i][0] + '%', t: POS[i][1] + '%', w: POS[i][2] + '%', sw: (POS[i][2] * (sp ? sp[3] : .8)).toFixed(2) + '%', cD: st === 'c' ? 'block' : 'none', sD: sp ? 'block' : 'none', eD: st === 'e' ? 'block' : 'none', mD: st === 'e' ? 'none' : 'block', mw: (st === 'c' ? POS[i][2] * .84 : (sp ? POS[i][2] * sp[3] * sp[4] : 0)).toFixed(2) + '%', spSt: sp ? 'background-image:url(media/ps-' + sp[0] + '.webp?v=1);aspect-ratio:' + sp[1] + ';transform:translate(-50%,' + sp[2] + ')' : '' }; }), g3GoFarm: () => this.g3Hero('f', () => this.g2Open('q')), g3GoFac: () => this.g3Hero('c', () => this.g2Open('b')), g3GoWord: () => this.g3Hero('w', () => { let seen = false; try { seen = window.localStorage.getItem('yoolmi-tut-vocab') === '1'; } catch (e) {} if (seen) { try { this.tiGo('vocab'); } catch (e) {} } else { this.setState({ ti: 'vocab', tiPh: 'tut' }); } }), g3ZmC: (() => { const S0 = this.state || {}; const on = !S0.mode && !S0.g2On && !S0.ti; if (S0.g3Zm) return 'g3in-' + S0.g3Zm; if (!on) { this._g3Off = true; return ''; } if (this._g3Off) { this._g3Off = false; this._g3BkT = Date.now(); } return (this._g3Last && Date.now() - (this._g3BkT || 0) < 900) ? 'g3out-' + this._g3Last : ''; })(), g3FarmL: ko ? '당근 농장' : 'Granja', g3FacL: ko ? '한글 카페' : 'Café', g3WordL: ko ? '단어 탐색' : 'Palabras', g3FarmB: ko ? '퀴즈 풀기' : 'Hacer el quiz', g3FacB: ko ? '한글 만들기' : 'Armar hangul', g3WordB: ko ? '단어 외우기' : 'Aprender', g3FarmS: ko ? '퀴즈 풀고 당근 키우기' : 'Haz el quiz', g3FacS: ko ? '글자·단어·문장 만들기' : 'Arma en coreano', g3WordS: ko ? '단어 외우기' : 'Vocabulario', g3ReadyC: (ko ? '캐기 ' : 'Cosecha ') + P.X.ready.length, g3TodayC: (ko ? '심기 ' : 'Siembra ') + P.X.planted + '/15', g3FarmA: ko ? '당근 농장: 퀴즈 풀고 당근 키우기' : 'Granja: quiz y zanahorias', g3FacA: ko ? '한글 카페: 글자·단어·문장 만들기' : 'Café: sílabas, palabras y frases', g3WordA: ko ? '단어 탐색: 단어 외우기' : 'Palabras: vocabulario', g3ReadyOn: P.X.ready.length > 0, g3ReadyN: String(P.X.ready.length), g3ReadyL: ko ? '캘 당근' : 'Para cosechar', g3TodayL: ko ? '오늘 심기' : 'Siembra hoy', g3TodayN: P.X.planted + '/15', g3TodayPct: Math.min(100, Math.round(P.X.planted / 15 * 100)) + '%' };
 }
 g2Vals() {
 const S = this.state || {}; if (!S.g2On) return { g2On: false };
